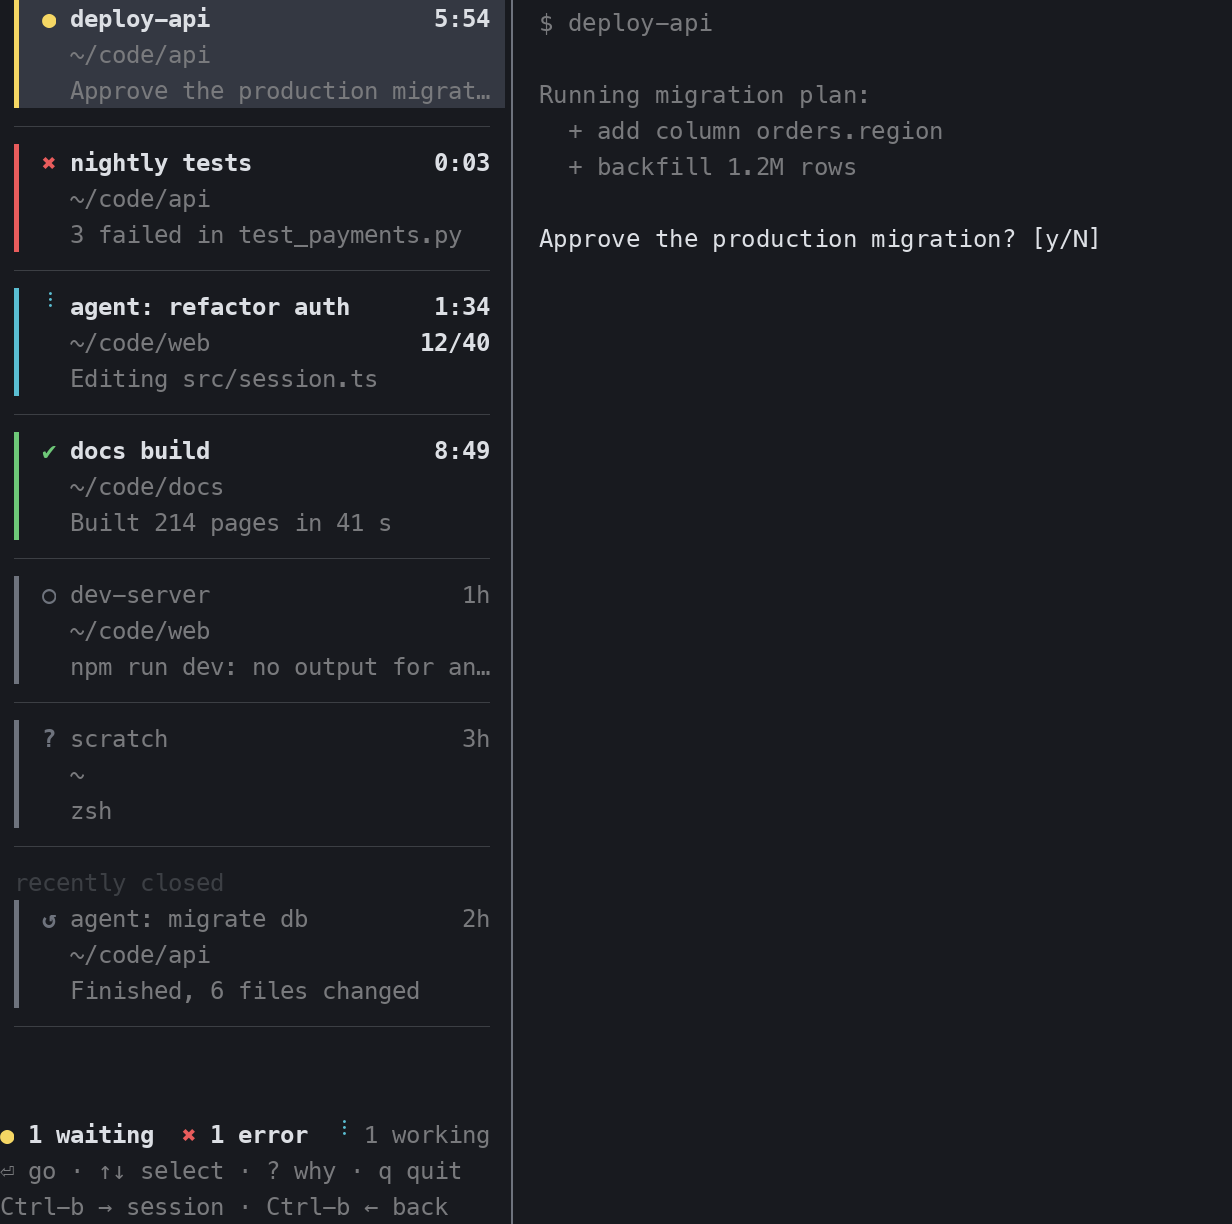
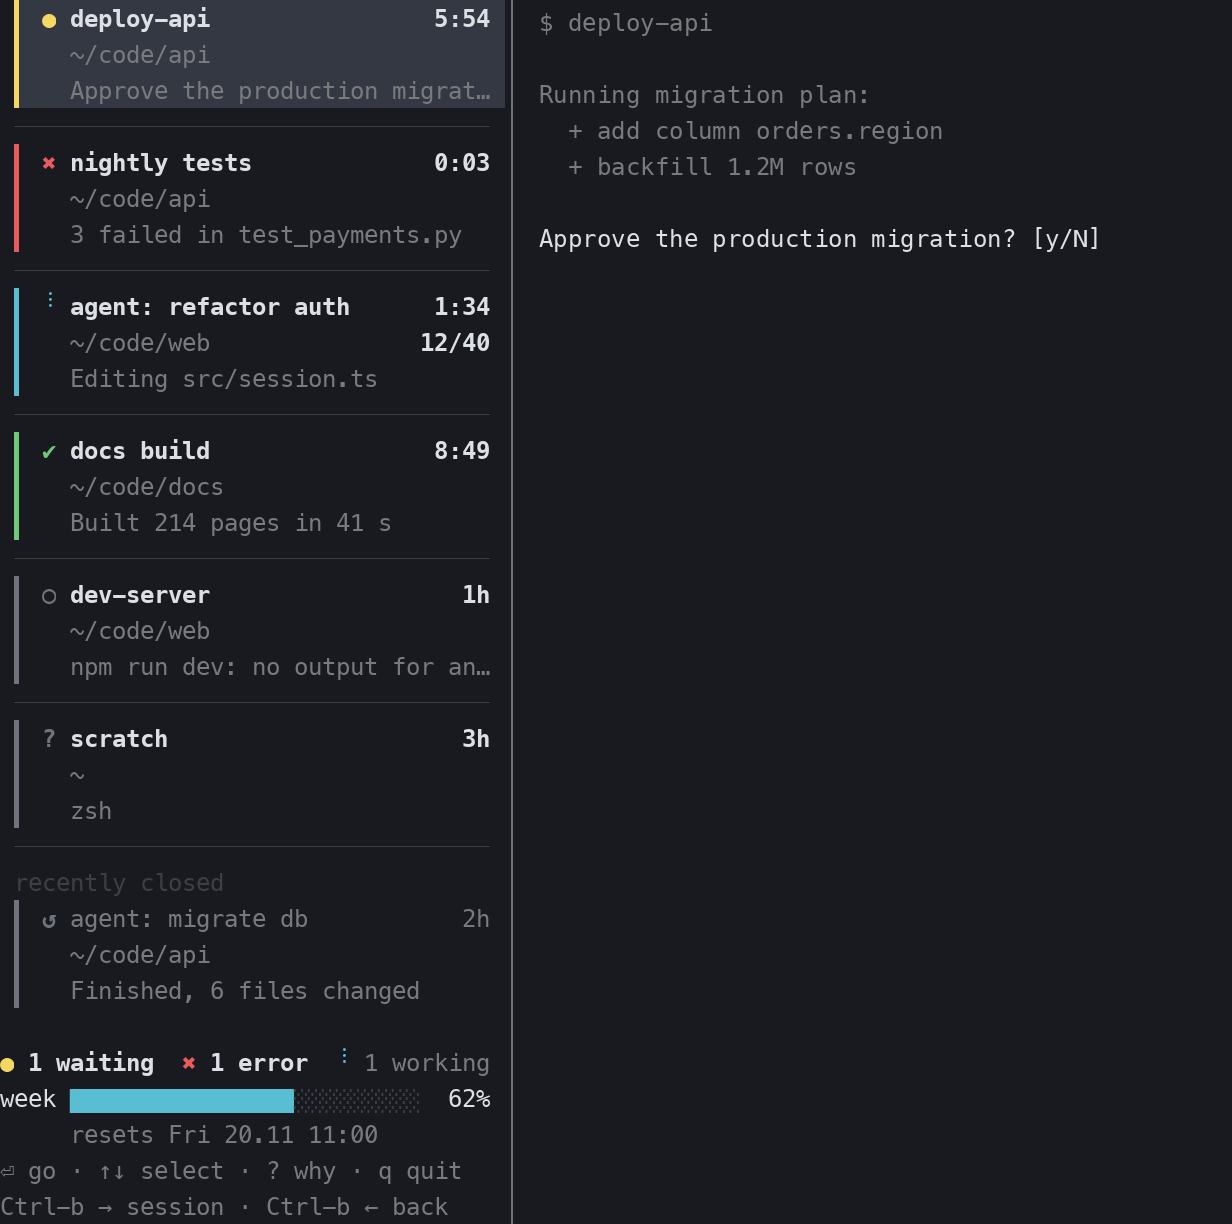
Usage meter under the counter: sebside meter set/clear
One meter (label, percent, note) drawn as `label ████░░ N%` with the note below, coloured at 75% and
90%, hidden once older than stale_hours. Stored in meter.json (0600, read with O_NOFOLLOW and owner
check). Screenshot shows it.

diff --git a/src/sebside/render.py b/src/sebside/render.py
@@ -11,7 +11,7 @@ from dataclasses import dataclass
 from typing import TYPE_CHECKING
 
 from .config import ANSI_NAMES, HEX, Config
-from .model import Card, State
+from .model import Card, Meter, State
 
 if TYPE_CHECKING:
     from .cards import Board
@@ -221,6 +221,40 @@ def counter_row(board: Board, width: int, config: Config, frame: int) -> Row:
     return line(width, spans, margin=False)
 
 
+METER_FULL = "█"
+METER_EMPTY = "░"
+
+
+def meter_rows(meter: Meter | None, width: int, config: Config, now: float) -> list[Row]:
+    """`label ████████░░░░░░  47%` and the note under it, aligned with the bar. Nothing for a missing meter or one
+    older than `stale_hours` (its number would no longer be true)."""
+    if meter is None or now - meter.at > config.stale_hours * 3600:
+        return []
+    text = config.colors["text"]
+    level = "error" if meter.percent >= 90 else "waiting" if meter.percent >= 75 else "working"
+    label = clip(meter.label, 12) + " "
+    value = f"  {meter.percent}%"
+    room = max(width - 1 - text_width(label) - len(value), 4)
+    filled = round(room * meter.percent / 100)
+    rows = [
+        line(
+            width,
+            [
+                (label, Style(text)),
+                (METER_FULL * filled, Style(config.colors[level])),
+                (METER_EMPTY * (room - filled), Style(config.colors["muted"], dim=True)),
+                (value, Style(text, bold=meter.percent >= 75)),
+            ],
+            margin=False,
+        )
+    ]
+    if meter.note:
+        indent = " " * text_width(label)
+        note = indent + clip(meter.note, width - 1 - len(indent))
+        rows.append(line(width, [(note, Style(text, dim=True))], margin=False))
+    return rows
+
+
 def hint_rows(width: int, config: Config, prefix: str, mode: str) -> list[Row]:
     muted = Style(config.colors["text"], dim=True)
     key = prefix_label(prefix)
@@ -373,6 +407,7 @@ def frame_layout(
     prefix: str = "C-b",
     resume_allowed: bool = False,
     current_session: str | None = None,
+    meter: Meter | None = None,
 ) -> tuple[list[Row], list[str | None]]:
     """The whole screen and, per screen row, the card key under it (None for anything else). Cards are scrolled to
     keep the selection visible, then come the counter and key hints."""
@@ -381,6 +416,7 @@ def frame_layout(
         footer.append(line(width, [(clip(message, width - 1), Style(config.colors["text"], bold=True))], margin=False))
     footer.append(line(width, []))
     footer.append(counter_row(board, width, config, frame))
+    footer += meter_rows(meter, width, config, now)
     footer += hint_rows(width, config, prefix, mode)
     room = max(height - len(footer), 0)
     selected = next((card for card in board.cards if card.key == selected_key), None)
@@ -422,8 +458,9 @@ def frame_rows(
     prefix: str = "C-b",
     resume_allowed: bool = False,
     current_session: str | None = None,
+    meter: Meter | None = None,
 ) -> list[Row]:
-    """The whole screen: cards (scrolled to keep the selection visible), then the counter and key hints."""
+    """The whole screen: cards (scrolled to keep the selection visible), then the counter, meter and key hints."""
     return frame_layout(
         board,
         selected_key,
@@ -437,6 +474,7 @@ def frame_rows(
         prefix=prefix,
         resume_allowed=resume_allowed,
         current_session=current_session,
+        meter=meter,
     )[0]
 
 

diff --git a/src/sebside/store.py b/src/sebside/store.py
@@ -24,7 +24,7 @@ from pathlib import Path
 from typing import TYPE_CHECKING, Any
 
 from .errors import StateError
-from .model import SCHEMA, CardRecord, State, TmuxRef, parse_state
+from .model import SCHEMA, CardRecord, Meter, State, TmuxRef, parse_state
 
 if TYPE_CHECKING:
     from collections.abc import Callable, Iterator, Mapping
@@ -282,6 +282,55 @@ class Store:
             if isinstance(error, UnicodeError | ValueError):
                 raise StateError(f"cannot write {target}: text is not valid UTF-8") from None
             raise
+
+    @property
+    def meter_path(self) -> Path:
+        return self.root / "meter.json"
+
+    def write_meter(self, meter: Meter) -> None:
+        """Atomic write of the usage meter (temporary file + rename, 0600)."""
+        self.ensure_dir()
+        descriptor, temporary = tempfile.mkstemp(prefix=".meter-", suffix=".tmp", dir=self.root)
+        try:
+            os.fchmod(descriptor, 0o600)
+            data = {"label": meter.label, "percent": meter.percent, "note": meter.note, "at": meter.at}
+            with os.fdopen(descriptor, "w", encoding="utf-8") as handle:
+                json.dump(data, handle, ensure_ascii=False)
+            Path(temporary).replace(self.meter_path)
+        except OSError as error:
+            with contextlib.suppress(OSError):
+                Path(temporary).unlink()
+            raise StateError(f"cannot write {self.meter_path}: {error.strerror}") from None
+
+    def clear_meter(self) -> bool:
+        try:
+            self.meter_path.unlink()
+        except FileNotFoundError:
+            return False
+        return True
+
+    def load_meter(self) -> Meter | None:
+        """The usage meter; None when missing, not a regular file owned by us, or not valid."""
+        try:
+            descriptor = os.open(self.meter_path, os.O_RDONLY | os.O_NOFOLLOW)
+        except OSError:
+            return None
+        try:
+            info = os.fstat(descriptor)
+            if info.st_uid != os.getuid() or not stat.S_ISREG(info.st_mode):
+                return None
+            with os.fdopen(descriptor, "rb", closefd=False) as handle:
+                data = parse_json(handle.read(10_000))
+        finally:
+            os.close(descriptor)
+        if data is None:
+            return None
+        label, percent, note, at = data.get("label"), data.get("percent"), data.get("note", ""), data.get("at", 0)
+        if not isinstance(label, str) or not isinstance(note, str) or isinstance(percent, bool):
+            return None
+        if not isinstance(percent, int) or not isinstance(at, int | float) or isinstance(at, bool):
+            return None
+        return Meter(label, max(0, min(100, percent)), note, float(at))
 
     def update(self, card_id: str, change: Callable[[CardRecord | None], CardRecord | None]) -> CardRecord | None:
         """Read, change and write one card under the lock. `change` returns None to write nothing."""

diff --git a/src/sebside/cli.py b/src/sebside/cli.py
@@ -21,7 +21,7 @@ from .cards import build, reconcile, server_of
 from .config import SORTS, Config, config_path, load_from_env
 from .errors import EXIT_OK, SebsideError, StateError, TmuxError, UsageError
 from .log import logger, setup
-from .model import OPTION_ID, OPTION_ROLE, OPTION_STATE, SIDEBAR_ROLE, CardRecord, State, TmuxRef, parse_state
+from .model import OPTION_ID, OPTION_ROLE, OPTION_STATE, SIDEBAR_ROLE, CardRecord, Meter, State, TmuxRef, parse_state
 from .render import clean
 from .store import Store
 from .tmux import FIELD_SEP, OWN_HOOKS, PANE_ID, Tmux, format_field, server_from_env
@@ -78,6 +78,15 @@ def _parser() -> argparse.ArgumentParser:
     clear.add_argument("--forget", action="store_true", help="delete the card file too")
 
     card.add_parser("list", parents=[common], help="print live and recently closed cards as JSON")
+
+    meter = commands.add_parser("meter", help="set or clear the usage meter under the counter").add_subparsers(
+        dest="meter", required=True
+    )
+    meter_set = meter.add_parser("set", parents=[common], help="show `label ████░░ N%%` and a note under the counter")
+    meter_set.add_argument("--label", required=True, help="short name, e.g. week")
+    meter_set.add_argument("--percent", required=True, type=int, help="0..100")
+    meter_set.add_argument("--note", default="", help="second line, e.g. when the limit resets")
+    meter.add_parser("clear", parents=[common], help="remove the meter")
 
     commands.add_parser(
         "reconcile", parents=[common], help="close cards whose pane is gone (the session-closed hook calls this)"
@@ -377,7 +386,24 @@ def run_sidebar(ctx: Context, args: argparse.Namespace) -> int:
     return run(app, ctx.env.get("TMUX_PANE") if ctx.env.get("TMUX") else None)
 
 
+def run_meter_set(ctx: Context, args: argparse.Namespace) -> int:
+    if not 0 <= args.percent <= 100:
+        raise UsageError(f"--percent must be 0..100, got {args.percent}")
+    label = _one_line(args.label, 16)
+    if not label:
+        raise UsageError("--label must not be empty")
+    ctx.store.write_meter(Meter(label, args.percent, _one_line(args.note, 60), ctx.now))
+    return EXIT_OK
+
+
+def run_meter_clear(ctx: Context, args: argparse.Namespace) -> int:
+    ctx.store.clear_meter()
+    return EXIT_OK
+
+
 COMMANDS: dict[str, Command] = {
+    "meter set": run_meter_set,
+    "meter clear": run_meter_clear,
     "sidebar": run_sidebar,
     "card set": run_card_set,
     "card clear": run_card_clear,
@@ -399,6 +425,8 @@ def main(argv: Sequence[str] | None = None, env: Mapping[str, str] | None = None
     name = args.command or "sidebar"
     if name == "card":
         name = f"card {args.card}"
+    if name == "meter":
+        name = f"meter {args.meter}"
     try:
         setup(debug, store.root)
         return COMMANDS[name](ctx, args)

diff --git a/tests/unit/test_meter.py b/tests/unit/test_meter.py
@@ -1,0 +1,56 @@
+"""The usage meter: `sebside meter set/clear`, its file, and the rows under the counter."""
+
+from __future__ import annotations
+
+import os
+from pathlib import Path
+
+from sebside import cli
+from sebside.config import Config
+from sebside.model import Meter
+from sebside.render import meter_rows, to_plain
+from sebside.store import Store
+
+NOW = 1_800_000_000.0
+
+
+def _env(tmp_path: Path) -> dict[str, str]:
+    return {"XDG_STATE_HOME": str(tmp_path), "HOME": str(tmp_path)}
+
+
+def test_set_then_clear(tmp_path: Path):
+    env = _env(tmp_path)
+    assert cli.main(["meter", "set", "--label", "week", "--percent", "47", "--note", "resets Thu 11:00"], env) == 0
+    meter = Store.from_env(env).load_meter()
+    assert meter is not None and (meter.label, meter.percent, meter.note) == ("week", 47, "resets Thu 11:00")
+    assert os.stat(Store.from_env(env).meter_path).st_mode & 0o077 == 0
+    assert cli.main(["meter", "clear"], env) == 0
+    assert Store.from_env(env).load_meter() is None
+
+
+def test_percent_out_of_range_is_refused(tmp_path: Path):
+    assert cli.main(["meter", "set", "--label", "week", "--percent", "120"], _env(tmp_path)) != 0
+    assert Store.from_env(_env(tmp_path)).load_meter() is None
+
+
+def test_invalid_file_is_ignored(tmp_path: Path):
+    store = Store.from_env(_env(tmp_path))
+    store.ensure_dir()
+    store.meter_path.write_text('{"label": "week", "percent": "lots"}')
+    assert store.load_meter() is None
+
+
+def test_rows_fill_the_width_with_a_proportional_bar():
+    rows = [to_plain(row) for row in meter_rows(Meter("week", 50, "resets Thu", NOW), 30, Config(), NOW)]
+    assert len(rows) == 2
+    assert rows[0].startswith("week ") and rows[0].rstrip().endswith("50%")
+    assert rows[0].count("█") == rows[0].count("░") or abs(rows[0].count("█") - rows[0].count("░")) == 1
+    assert rows[1].startswith("     resets Thu")
+
+
+def test_no_rows_without_a_meter_or_when_it_is_old():
+    config = Config()
+    assert meter_rows(None, 30, config, NOW) == []
+    old = Meter("week", 50, "", NOW - config.stale_hours * 3600 - 1)
+    assert meter_rows(old, 30, config, NOW) == []
+

diff --git a/src/sebside/tui.py b/src/sebside/tui.py
@@ -26,7 +26,7 @@ from typing import TYPE_CHECKING
 from .cards import Board, build, newly_seen, reconcile, server_of
 from .errors import SebsideError
 from .log import logger
-from .model import OPTION_ROLE, SIDEBAR_ROLE, Card, Pane, State
+from .model import OPTION_ROLE, SIDEBAR_ROLE, Card, Meter, Pane, State
 from .render import Row, clean, frame_layout, to_ansi
 
 if TYPE_CHECKING:
@@ -123,6 +123,7 @@ class App:
     reload: bool = False  # the installed code changed: restart this process once the terminal is restored
     companion_seen: bool = False  # a non-sidebar pane has shared this window with us at least once
     row_keys: list[str | None] = field(default_factory=list)  # card key under each screen row, as last painted
+    meter: Meter | None = None  # the usage meter under the counter, as last read
 
     # data --------------------------------------------------------------------------------------------
     def refresh(self) -> None:
@@ -134,6 +135,7 @@ class App:
             self.message = f"refresh failed: {clean(str(error))}"
 
     def _refresh(self) -> None:
+        self.meter = self.store.load_meter()
         panes = self.tmux.list_panes()
         if panes is None:
             self.message = "tmux did not answer; showing the last known cards"
@@ -331,6 +333,7 @@ class App:
             prefix=self.prefix,
             resume_allowed=self.resume_allowed(),
             current_session=self.current_session,
+            meter=self.meter,
         )
         return rows
 

diff --git a/tests/unit/test_tui.py b/tests/unit/test_tui.py
@@ -5,7 +5,7 @@ import pytest
 
 from fakes import NOW, FakePane, FakeTmuxServer, record
 from sebside.config import Config
-from sebside.model import OPTION_ID, State
+from sebside.model import OPTION_ID, Meter, State
 from sebside.render import to_plain
 from sebside.store import Store
 from sebside.tmux import Tmux
@@ -439,3 +439,12 @@ def test_x_key_forgets_selected_closed_card_but_never_a_live_one(server, app, st
 def test_store_forget_refuses_open_cards(store):
     store.write(record("open1"))
     assert store.forget("open1")[0] is False and store.load("open1") is not None
+
+
+def test_meter_sits_under_the_counter_in_the_sidebar(server, app, store):
+    store.write_meter(Meter("week", 47, "resets Thu 11:00", app.clock()))
+    app.refresh()
+    painted = [to_plain(row) for row in app.rows(36, 20)]
+    week = next(index for index, row in enumerate(painted) if row.startswith("week "))
+    assert "resets Thu 11:00" in painted[week + 1]
+    assert "waiting" in painted[week - 1] or "nothing needs you" in painted[week - 1] or "working" in painted[week - 1]

diff --git a/scripts/screenshot.py b/scripts/screenshot.py
@@ -12,7 +12,7 @@ from PIL import Image, ImageDraw, ImageFont
 
 from sebside.cards import Board
 from sebside.config import Config
-from sebside.model import Card, State
+from sebside.model import Card, Meter, State
 from sebside.render import Row, frame_rows
 
 NOW = 1_800_000_000.0
@@ -124,7 +124,8 @@ def draw(rows: list[Row], path: Path) -> None:
 def main() -> None:
     out = Path(sys.argv[1] if len(sys.argv) > 1 else "docs/screenshot.png")
     board = demo_board()
-    rows = frame_rows(board, board.live[0].key, WIDTH, HEIGHT, Config(), NOW, frame=3)
+    meter = Meter("week", 62, "resets Fri 20.11 11:00", NOW)
+    rows = frame_rows(board, board.live[0].key, WIDTH, HEIGHT, Config(), NOW, frame=3, meter=meter)
     draw(rows, out)
     print(f"wrote {out}")
 

diff --git a/src/sebside/model.py b/src/sebside/model.py
@@ -28,6 +28,16 @@ OPTION_RESUMED = "@sebside_resumed"  # session option: sebside resumed this sess
 SIDEBAR_ROLE = "sidebar"
 
 
+@dataclass(frozen=True, slots=True)
+class Meter:
+    """One usage meter under the counter row, e.g. a weekly limit: `label ████░░░ 47%` and a note below."""
+
+    label: str
+    percent: int  # 0..100
+    note: str = ""
+    at: float = 0.0  # when it was set (epoch seconds); an old meter is not drawn
+
+
 def parse_state(value: str) -> State:
     try:
         return State(value.strip().lower())

diff --git a/CHANGELOG.md b/CHANGELOG.md
@@ -8,6 +8,9 @@ All notable changes to this project are documented here. The format follows
 
 ### Added
 
+- `sebside meter set --label L --percent N [--note TEXT]` / `sebside meter clear`: one usage meter under the
+  counter (`label ████░░ N%` and the note below), e.g. a weekly limit. Hidden once older than `stale_hours`.
+
 - The `x` / Delete key forgets the selected recently closed card (its own
   card file only, after the same ownership checks as resume). Live cards are never removed.
 - A click on a recently closed card resumes it at once (still only allowlisted programs, no shell); Enter asks first,

diff --git a/README.md b/README.md
@@ -102,6 +102,8 @@ Other commands:
 
 ```sh
 sebside card clear [--id ID] [--forget]   # close the card (keep it in history unless --forget)
+sebside meter set --label week --percent 47 --note "resets Fri 11:00"   # usage meter under the counter
+sebside meter clear
 sebside card list                         # live and recently closed cards as JSON
 sebside reconcile                         # close cards whose pane is gone (the hook runs this)
 sebside config path | show | get KEY
